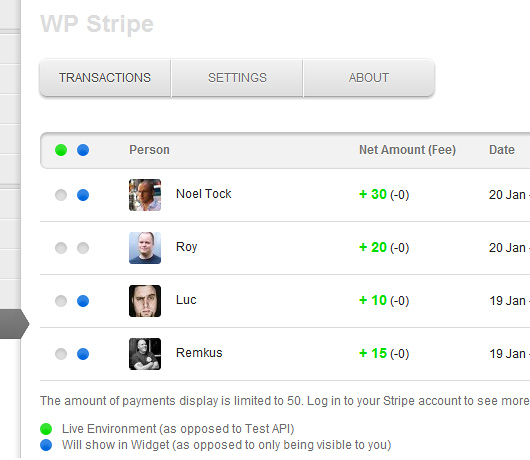
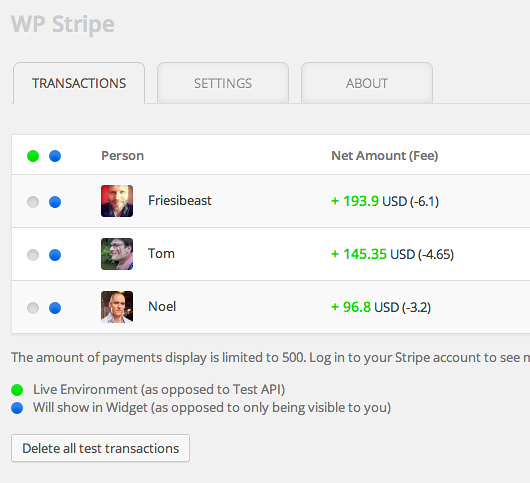
Readme / Screenshots / etc

diff --git a/css/wp-stripe-admin.css b/css/wp-stripe-admin.css
@@ -26,7 +26,8 @@ h1.stripe-title {
 
 ul#wp-stripe-tabs-nav {
     position:relative;
-    margin-bottom:10px;
+    margin-bottom:30px;
+    
     height:41px;
     overflow:visible;
     border-bottom:1px solid #ddd
@@ -52,7 +53,6 @@ ul#wp-stripe-tabs-nav li {
     opacity:0.8;
     -webkit-box-shadow:inset 0 -1px 10px 0 rgba(0,0,0,0.1);
     box-shadow:inset 0 -1px 10px 0 rgba(0,0,0,0.1);
-
 }
 
 ul#wp-stripe-tabs-nav li.ui-state-active,

diff --git a/includes/stripe-options.php b/includes/stripe-options.php
@@ -188,7 +188,7 @@ function wp_stripe_field_test () {
 
         $options = get_option( 'wp_stripe_options' );
         $value = $options['stripe_test_api'];
-        echo "<input id='setting_api' name='wp_stripe_options[stripe_test_api]' type='text' size='40' value='$value' />";
+        echo "<input id='setting_api' name='wp_stripe_options[stripe_test_api]' class='code' type='text' size='40' value='$value' />";
 
 }
 
@@ -196,7 +196,7 @@ function wp_stripe_field_test_publish () {
 
         $options = get_option( 'wp_stripe_options' );
         $value = $options['stripe_test_api_publish'];
-        echo "<input id='setting_api' name='wp_stripe_options[stripe_test_api_publish]' type='text' size='40' value='$value' />";
+        echo "<input id='setting_api' name='wp_stripe_options[stripe_test_api_publish]' class='code' type='text' size='40' value='$value' />";
 
 }
 
@@ -204,7 +204,7 @@ function wp_stripe_field_prod () {
 
         $options = get_option( 'wp_stripe_options' );
         $value = $options['stripe_prod_api'];
-        echo "<input id='setting_api' name='wp_stripe_options[stripe_prod_api]' type='text' size='40' value='$value' />";
+        echo "<input id='setting_api' name='wp_stripe_options[stripe_prod_api]' class='code' type='text' size='40' value='$value' />";
 
 }
 
@@ -212,7 +212,7 @@ function wp_stripe_field_prod_publish () {
 
         $options = get_option( 'wp_stripe_options' );
         $value = $options['stripe_prod_api_publish'];
-        echo "<input id='setting_api' name='wp_stripe_options[stripe_prod_api_publish]' type='text' size='40' value='$value' />";
+        echo "<input id='setting_api' name='wp_stripe_options[stripe_prod_api_publish]'' class='code' type='text' size='40' value='$value' />";
 
 }
 
@@ -283,7 +283,8 @@ function wp_stripe_options_page() {
 
                   <th style="width:44px;"><div class="dot-stripe-live"></div><div class="dot-stripe-public"></div></th>
                   <th style="width:200px;">Person</th>
-                  <th style="width:100px;">Net Amount (Fee)</th>
+                  <th style="width:200px;">Net Amount (Fee)</th>
+                  
                   <th style="width:80px;">Date</th>
 
                   <th>Comment</th>
